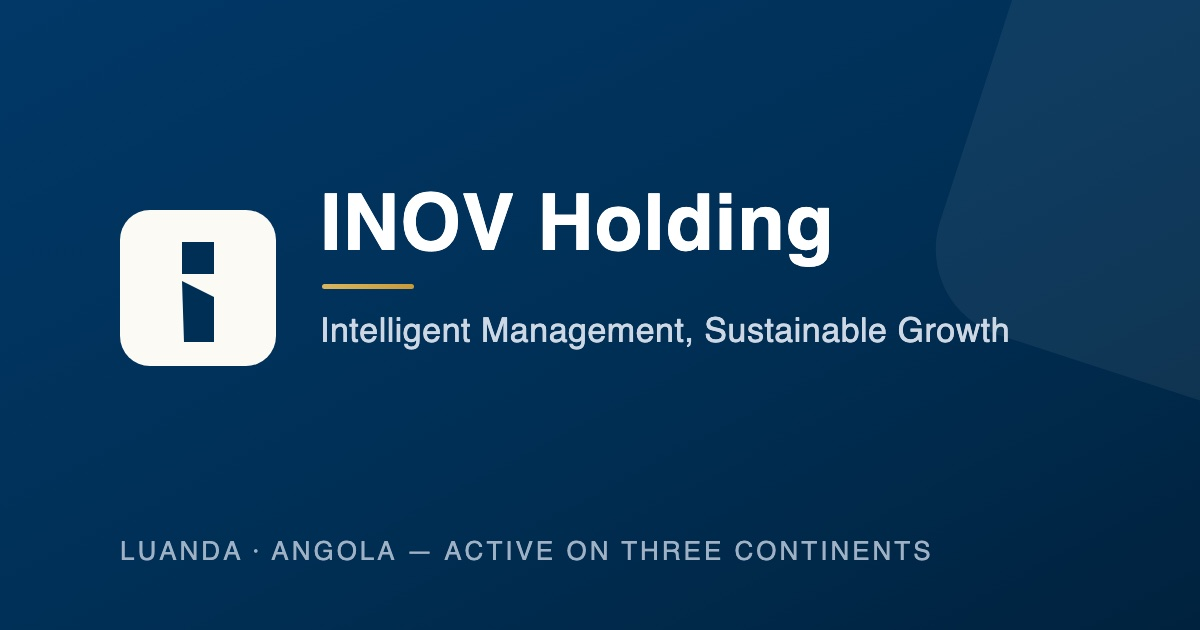
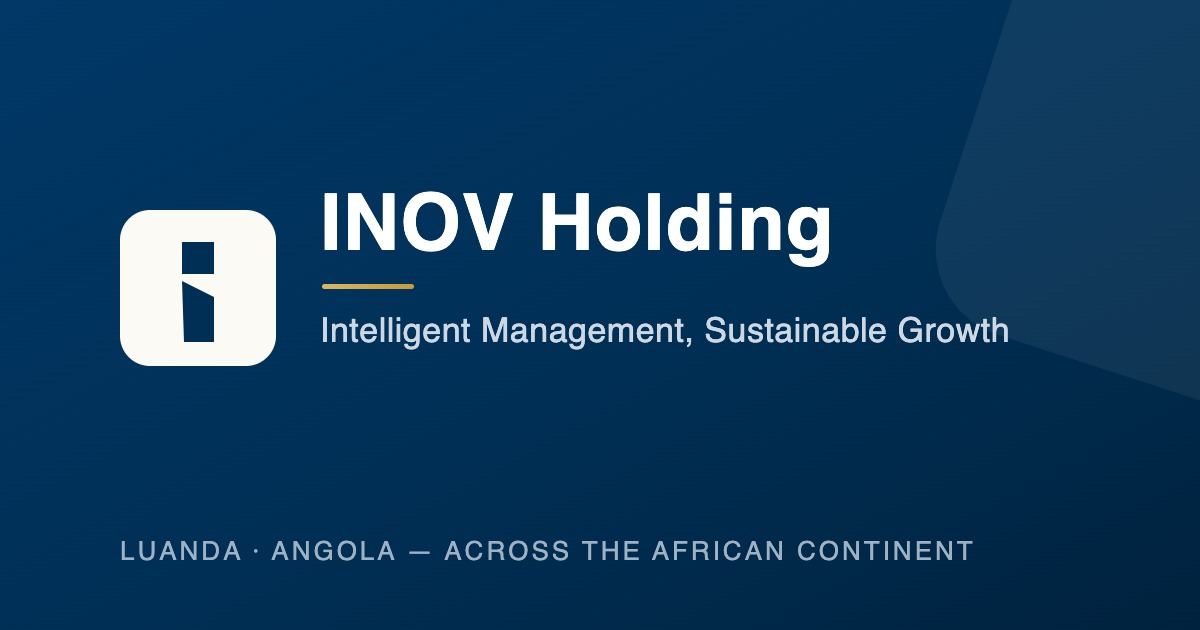
fix: auditoria — fail-closed de segurança e regressões de conteúdo
Segurança (ALTA, verificado adversarialmente):
- auth.js: em produção, recusar arrancar sem JWT_SECRET. Sem ele as sessões
  admin eram assinadas com uma constante do repositório e qualquer pessoa
  forjava um cookie válido. Fallback mantido só em desenvolvimento.
- db.js: em produção, recusar o seed do admin sem ADMIN_PASSWORD. O seed corre
  uma vez, pelo que a conta 'admin@inovholding.com' com password 'change-me-now'
  ficaria criada em permanência. Ambos os defaults constavam do .env.example.

Conteúdo (regressões desta sessão):
- Removido «digital economy»/«economia digital» do texto de Sobre Nós (EN+PT):
  o sector foi retirado mas a frase da história ficou.
- «Five companies»/«Cinco empresas» → «Four»/«Quatro» (Publink foi removida).
- og-image (JPG/PNG/SVG) regenerado: a tagline dizia «ACTIVE ON THREE
  CONTINENTS» — agora «ACROSS THE AFRICAN CONTINENT». É a imagem que as redes
  sociais mostram ao partilhar o site.

Coerência:
- JSON-LD legalName «Lda» → «S.A.» para espelhar o site visível.
- README: removido «three continents», navegação actualizada para as 8 páginas
  actuais, e-mail geral alinhado em @inovholding.com.

Verificado: guards disparam em prod sem segredo e deixam passar com segredo/em
dev; zero termos proibidos no fonte, no dist e nos assets; JSON-LD válido.

Changed region(s): [[0.4008, 0.8444, 0.8017, 0.9048]]

diff --git a/dist/index.html b/dist/index.html
@@ -27,7 +27,7 @@
 <meta name="twitter:description" content="Intelligent Management, Sustainable Growth — an Angolan holding, and the way in for companies building in Angola.">
 <meta name="twitter:image" content="https://inovholding.com/og-image.jpg">
 <script type="application/ld+json">
-{"@context":"https://schema.org","@type":"Organization","name":"INOV Holding","legalName":"INOV Holding, Lda","url":"https://inovholding.com/","email":"geral@inovholding.com","sameAs":["https://www.linkedin.com/company/inov-holding/"],"description":"An Angolan holding company headquartered in Luanda, operating business platforms across the strategic sectors of the economy and acting as the entry point for international companies establishing operations in Angola.","foundingLocation":{"@type":"Place","name":"Luanda, Angola"},"address":{"@type":"PostalAddress","addressLocality":"Luanda","addressCountry":"AO"},"areaServed":["Angola","Africa"],"numberOfEmployees":{"@type":"QuantitativeValue","value":"50+"},"hasOfferCatalog":{"@type":"OfferCatalog","name":"INOV Advisory","itemListElement":[{"@type":"Offer","itemOffered":{"@type":"Service","name":"Project Management Outsourcing (PMO)"}},{"@type":"Offer","itemOffered":{"@type":"Service","name":"Human Resources"}},{"@type":"Offer","itemOffered":{"@type":"Service","name":"Accounting & Finance"}},{"@type":"Offer","itemOffered":{"@type":"Service","name":"Taxation"}},{"@type":"Offer","itemOffered":{"@type":"Service","name":"Market Research"}},{"@type":"Offer","itemOffered":{"@type":"Service","name":"Strategy & Business Analysis"}},{"@type":"Offer","itemOffered":{"@type":"Service","name":"Procurement"}}]}}
+{"@context":"https://schema.org","@type":"Organization","name":"INOV Holding","legalName":"INOV Holding, S.A.","url":"https://inovholding.com/","email":"geral@inovholding.com","sameAs":["https://www.linkedin.com/company/inov-holding/"],"description":"An Angolan holding company headquartered in Luanda, operating business platforms across the strategic sectors of the economy and acting as the entry point for international companies establishing operations in Angola.","foundingLocation":{"@type":"Place","name":"Luanda, Angola"},"address":{"@type":"PostalAddress","addressLocality":"Luanda","addressCountry":"AO"},"areaServed":["Angola","Africa"],"numberOfEmployees":{"@type":"QuantitativeValue","value":"50+"},"hasOfferCatalog":{"@type":"OfferCatalog","name":"INOV Advisory","itemListElement":[{"@type":"Offer","itemOffered":{"@type":"Service","name":"Project Management Outsourcing (PMO)"}},{"@type":"Offer","itemOffered":{"@type":"Service","name":"Human Resources"}},{"@type":"Offer","itemOffered":{"@type":"Service","name":"Accounting & Finance"}},{"@type":"Offer","itemOffered":{"@type":"Service","name":"Taxation"}},{"@type":"Offer","itemOffered":{"@type":"Service","name":"Market Research"}},{"@type":"Offer","itemOffered":{"@type":"Service","name":"Strategy & Business Analysis"}},{"@type":"Offer","itemOffered":{"@type":"Service","name":"Procurement"}}]}}
 </script>
 <link rel="preconnect" href="https://fonts.googleapis.com">
 <link rel="preconnect" href="https://fonts.gstatic.com" crossorigin>
@@ -646,7 +646,7 @@ header.home.has-cover .hero-cover::after{
       <h2>A holding company with <span class="lt">an operator's instinct.</span></h2>
       <div class="prose">
         <p>INOV Holding, S.A., headquartered in Luanda, owns and directs an integrated set of business platforms across the strategic sectors of the economy. But our identity is not that of a distant portfolio manager: <strong>we are founders and operators</strong>, present in the construction of every business from day one.</p>
-        <p>The group was born in the communication sector and expanded with method — first into the production and infrastructure that served our own projects, then into the financial services and digital economy our clients asked for. Every platform answered a real market need before becoming a strategic bet.</p>
+        <p>The group was born in the communication sector and expanded with method — first into the production and infrastructure that served our own projects, then into the financial services our clients asked for. Every platform answered a real market need before becoming a strategic bet.</p>
         <p>Today that portfolio operates from Luanda with reach across the African continent — and with a rare characteristic: <strong>complete value chains under one roof</strong>, from concept to execution, from production to risk protection.</p>
       </div>
       <p class="purpose-quote">"So that each generation builds more than the one before."</p>
@@ -750,7 +750,7 @@ header.home.has-cover .hero-cover::after{
 
 <section class="navy">
   <div class="cta-band">
-    <div class="reveal"><p class="sec-label">Get To Know Us</p><h2>Five companies. <span class="lt">One conviction.</span></h2></div>
+    <div class="reveal"><p class="sec-label">Get To Know Us</p><h2>Four companies. <span class="lt">One conviction.</span></h2></div>
     <div class="reveal"><a class="btn" href="#companies">Explore the companies</a></div>
   </div>
 </section>
@@ -1081,7 +1081,7 @@ header.home.has-cover .hero-cover::after{
       <h2>Sociedade de participações com <span class="lt">vocação de operador.</span></h2>
       <div class="prose">
         <p>A INOV Holding, S.A., com sede em Luanda, detém e dirige um conjunto integrado de plataformas empresariais nos sectores estratégicos da economia. Mas a nossa identidade não é a de um gestor de carteira distante: <strong>somos fundadores e operadores</strong>, presentes na construção de cada negócio desde o primeiro dia.</p>
-        <p>O grupo nasceu no sector da comunicação e expandiu-se com método — primeiro para a produção e infra-estruturas que serviam os nossos próprios projectos, depois para os serviços financeiros e a economia digital que os nossos clientes pediam. Cada plataforma respondeu a uma necessidade real do mercado antes de se tornar uma aposta estratégica.</p>
+        <p>O grupo nasceu no sector da comunicação e expandiu-se com método — primeiro para a produção e infra-estruturas que serviam os nossos próprios projectos, depois para os serviços financeiros que os nossos clientes pediam. Cada plataforma respondeu a uma necessidade real do mercado antes de se tornar uma aposta estratégica.</p>
         <p>Hoje, esse conjunto opera a partir de Luanda com alcance por todo o continente africano — e com uma característica rara: <strong>cadeias de valor completas sob o mesmo tecto</strong>, da concepção à execução, da produção à protecção do risco.</p>
       </div>
       <p class="purpose-quote">"Para que cada geração construa mais do que a anterior."</p>
@@ -1185,7 +1185,7 @@ header.home.has-cover .hero-cover::after{
 
 <section class="navy">
   <div class="cta-band">
-    <div class="reveal"><p class="sec-label">Conheça-nos Melhor</p><h2>Cinco empresas. <span class="lt">Uma só convicção.</span></h2></div>
+    <div class="reveal"><p class="sec-label">Conheça-nos Melhor</p><h2>Quatro empresas. <span class="lt">Uma só convicção.</span></h2></div>
     <div class="reveal"><a class="btn" href="#companies">Explorar as empresas</a></div>
   </div>
 </section>

diff --git a/index.html b/index.html
@@ -27,7 +27,7 @@
 <meta name="twitter:description" content="Intelligent Management, Sustainable Growth — an Angolan holding, and the way in for companies building in Angola.">
 <meta name="twitter:image" content="https://inovholding.com/og-image.jpg">
 <script type="application/ld+json">
-{"@context":"https://schema.org","@type":"Organization","name":"INOV Holding","legalName":"INOV Holding, Lda","url":"https://inovholding.com/","email":"geral@inovholding.com","sameAs":["https://www.linkedin.com/company/inov-holding/"],"description":"An Angolan holding company headquartered in Luanda, operating business platforms across the strategic sectors of the economy and acting as the entry point for international companies establishing operations in Angola.","foundingLocation":{"@type":"Place","name":"Luanda, Angola"},"address":{"@type":"PostalAddress","addressLocality":"Luanda","addressCountry":"AO"},"areaServed":["Angola","Africa"],"numberOfEmployees":{"@type":"QuantitativeValue","value":"50+"},"hasOfferCatalog":{"@type":"OfferCatalog","name":"INOV Advisory","itemListElement":[{"@type":"Offer","itemOffered":{"@type":"Service","name":"Project Management Outsourcing (PMO)"}},{"@type":"Offer","itemOffered":{"@type":"Service","name":"Human Resources"}},{"@type":"Offer","itemOffered":{"@type":"Service","name":"Accounting & Finance"}},{"@type":"Offer","itemOffered":{"@type":"Service","name":"Taxation"}},{"@type":"Offer","itemOffered":{"@type":"Service","name":"Market Research"}},{"@type":"Offer","itemOffered":{"@type":"Service","name":"Strategy & Business Analysis"}},{"@type":"Offer","itemOffered":{"@type":"Service","name":"Procurement"}}]}}
+{"@context":"https://schema.org","@type":"Organization","name":"INOV Holding","legalName":"INOV Holding, S.A.","url":"https://inovholding.com/","email":"geral@inovholding.com","sameAs":["https://www.linkedin.com/company/inov-holding/"],"description":"An Angolan holding company headquartered in Luanda, operating business platforms across the strategic sectors of the economy and acting as the entry point for international companies establishing operations in Angola.","foundingLocation":{"@type":"Place","name":"Luanda, Angola"},"address":{"@type":"PostalAddress","addressLocality":"Luanda","addressCountry":"AO"},"areaServed":["Angola","Africa"],"numberOfEmployees":{"@type":"QuantitativeValue","value":"50+"},"hasOfferCatalog":{"@type":"OfferCatalog","name":"INOV Advisory","itemListElement":[{"@type":"Offer","itemOffered":{"@type":"Service","name":"Project Management Outsourcing (PMO)"}},{"@type":"Offer","itemOffered":{"@type":"Service","name":"Human Resources"}},{"@type":"Offer","itemOffered":{"@type":"Service","name":"Accounting & Finance"}},{"@type":"Offer","itemOffered":{"@type":"Service","name":"Taxation"}},{"@type":"Offer","itemOffered":{"@type":"Service","name":"Market Research"}},{"@type":"Offer","itemOffered":{"@type":"Service","name":"Strategy & Business Analysis"}},{"@type":"Offer","itemOffered":{"@type":"Service","name":"Procurement"}}]}}
 </script>
 <link rel="preconnect" href="https://fonts.googleapis.com">
 <link rel="preconnect" href="https://fonts.gstatic.com" crossorigin>
@@ -646,7 +646,7 @@ header.home.has-cover .hero-cover::after{
       <h2>A holding company with <span class="lt">an operator's instinct.</span></h2>
       <div class="prose">
         <p>INOV Holding, S.A., headquartered in Luanda, owns and directs an integrated set of business platforms across the strategic sectors of the economy. But our identity is not that of a distant portfolio manager: <strong>we are founders and operators</strong>, present in the construction of every business from day one.</p>
-        <p>The group was born in the communication sector and expanded with method — first into the production and infrastructure that served our own projects, then into the financial services and digital economy our clients asked for. Every platform answered a real market need before becoming a strategic bet.</p>
+        <p>The group was born in the communication sector and expanded with method — first into the production and infrastructure that served our own projects, then into the financial services our clients asked for. Every platform answered a real market need before becoming a strategic bet.</p>
         <p>Today that portfolio operates from Luanda with reach across the African continent — and with a rare characteristic: <strong>complete value chains under one roof</strong>, from concept to execution, from production to risk protection.</p>
       </div>
       <p class="purpose-quote">"So that each generation builds more than the one before."</p>
@@ -750,7 +750,7 @@ header.home.has-cover .hero-cover::after{
 
 <section class="navy">
   <div class="cta-band">
-    <div class="reveal"><p class="sec-label">Get To Know Us</p><h2>Five companies. <span class="lt">One conviction.</span></h2></div>
+    <div class="reveal"><p class="sec-label">Get To Know Us</p><h2>Four companies. <span class="lt">One conviction.</span></h2></div>
     <div class="reveal"><a class="btn" href="#companies">Explore the companies</a></div>
   </div>
 </section>
@@ -1081,7 +1081,7 @@ header.home.has-cover .hero-cover::after{
       <h2>Sociedade de participações com <span class="lt">vocação de operador.</span></h2>
       <div class="prose">
         <p>A INOV Holding, S.A., com sede em Luanda, detém e dirige um conjunto integrado de plataformas empresariais nos sectores estratégicos da economia. Mas a nossa identidade não é a de um gestor de carteira distante: <strong>somos fundadores e operadores</strong>, presentes na construção de cada negócio desde o primeiro dia.</p>
-        <p>O grupo nasceu no sector da comunicação e expandiu-se com método — primeiro para a produção e infra-estruturas que serviam os nossos próprios projectos, depois para os serviços financeiros e a economia digital que os nossos clientes pediam. Cada plataforma respondeu a uma necessidade real do mercado antes de se tornar uma aposta estratégica.</p>
+        <p>O grupo nasceu no sector da comunicação e expandiu-se com método — primeiro para a produção e infra-estruturas que serviam os nossos próprios projectos, depois para os serviços financeiros que os nossos clientes pediam. Cada plataforma respondeu a uma necessidade real do mercado antes de se tornar uma aposta estratégica.</p>
         <p>Hoje, esse conjunto opera a partir de Luanda com alcance por todo o continente africano — e com uma característica rara: <strong>cadeias de valor completas sob o mesmo tecto</strong>, da concepção à execução, da produção à protecção do risco.</p>
       </div>
       <p class="purpose-quote">"Para que cada geração construa mais do que a anterior."</p>
@@ -1185,7 +1185,7 @@ header.home.has-cover .hero-cover::after{
 
 <section class="navy">
   <div class="cta-band">
-    <div class="reveal"><p class="sec-label">Conheça-nos Melhor</p><h2>Cinco empresas. <span class="lt">Uma só convicção.</span></h2></div>
+    <div class="reveal"><p class="sec-label">Conheça-nos Melhor</p><h2>Quatro empresas. <span class="lt">Uma só convicção.</span></h2></div>
     <div class="reveal"><a class="btn" href="#companies">Explorar as empresas</a></div>
   </div>
 </section>

diff --git a/server/auth.js b/server/auth.js
@@ -4,6 +4,13 @@ import bcrypt from 'bcryptjs';
 import { one, q } from './db.js';
 
 const COOKIE = 'inov_admin';
+const IS_PROD = process.env.NODE_ENV === 'production';
+// Fail closed: em produção, um JWT_SECRET ausente significaria assinar as sessões
+// admin com uma constante do repositório — qualquer pessoa forjaria um cookie
+// válido. Recusar arrancar em vez de degradar em silêncio.
+if (IS_PROD && !process.env.JWT_SECRET) {
+  throw new Error('[inov] JWT_SECRET obrigatório em produção — defina-o nas variáveis de ambiente.');
+}
 const SECRET = process.env.JWT_SECRET || 'dev-insecure-secret-change-me';
 const MAX_AGE = 1000 * 60 * 60 * 8; // 8 hours
 
@@ -18,7 +25,7 @@ export function setAuthCookie(res, token) {
   res.cookie(COOKIE, token, {
     httpOnly: true,
     sameSite: 'lax',
-    secure: process.env.NODE_ENV === 'production',
+    secure: IS_PROD,
     maxAge: MAX_AGE,
   });
 }

diff --git a/server/db.js b/server/db.js
@@ -211,6 +211,12 @@ async function seed() {
   const email = (process.env.ADMIN_EMAIL || 'admin@inovholding.com').toLowerCase();
   const existing = await one('SELECT id FROM admins WHERE email = ?', [email]);
   if (!existing) {
+    // Fail closed: nunca criar um admin com a password por omissão em produção.
+    // O seed corre só uma vez, pelo que uma conta-armadilha criada aqui ficaria
+    // em permanência; melhor recusar do que semear credenciais conhecidas.
+    if (process.env.NODE_ENV === 'production' && !process.env.ADMIN_PASSWORD) {
+      throw new Error('[inov] ADMIN_PASSWORD obrigatório no primeiro arranque em produção — defina-o nas variáveis de ambiente.');
+    }
     const hash = bcrypt.hashSync(process.env.ADMIN_PASSWORD || 'change-me-now', 10);
     await q('INSERT INTO admins (email, password_hash) VALUES (?, ?)', [email, hash]);
     console.log(`[db] seeded admin: ${email}`);

diff --git a/README.md b/README.md
@@ -1,7 +1,7 @@
 # INOV Holding — Institutional Website + Admin
 
 Bilingual (EN/PT) institutional website for **INOV Holding**, an Angolan
-holding company headquartered in Luanda and active on three continents, now with a
+holding company headquartered in Luanda, now with a
 self-hosted content/admin backend.
 
 *Intelligent Management, Sustainable Growth.*
@@ -9,8 +9,8 @@ self-hosted content/admin backend.
 ## Overview
 
 - **Bilingual** EN/PT, switchable in-page (no reload).
-- **Client-side routing** across sections: Home, The Group, Sectors, Presence,
-  Governance, Sustainability, **Insights**, **Careers**, Contact.
+- **Client-side routing** across 8 pages: Home, About, Companies, Advisory,
+  Sustainability, **Insights**, **Careers**, Contact.
 - **Data-driven**: publications, group companies, open positions and site images
   are loaded from the API (`GET /api/content`) with a graceful fallback to built-in
   defaults when no API is present (e.g. the static GitHub Pages mirror).
@@ -76,7 +76,7 @@ Forms require the backend, so the live site should be the Hostinger deployment.
 
 ## Contact
 
-- General: geral@inovholding.ao
+- General: geral@inovholding.com
 - Partnerships: parcerias@inovholding.ao
 
 ---
